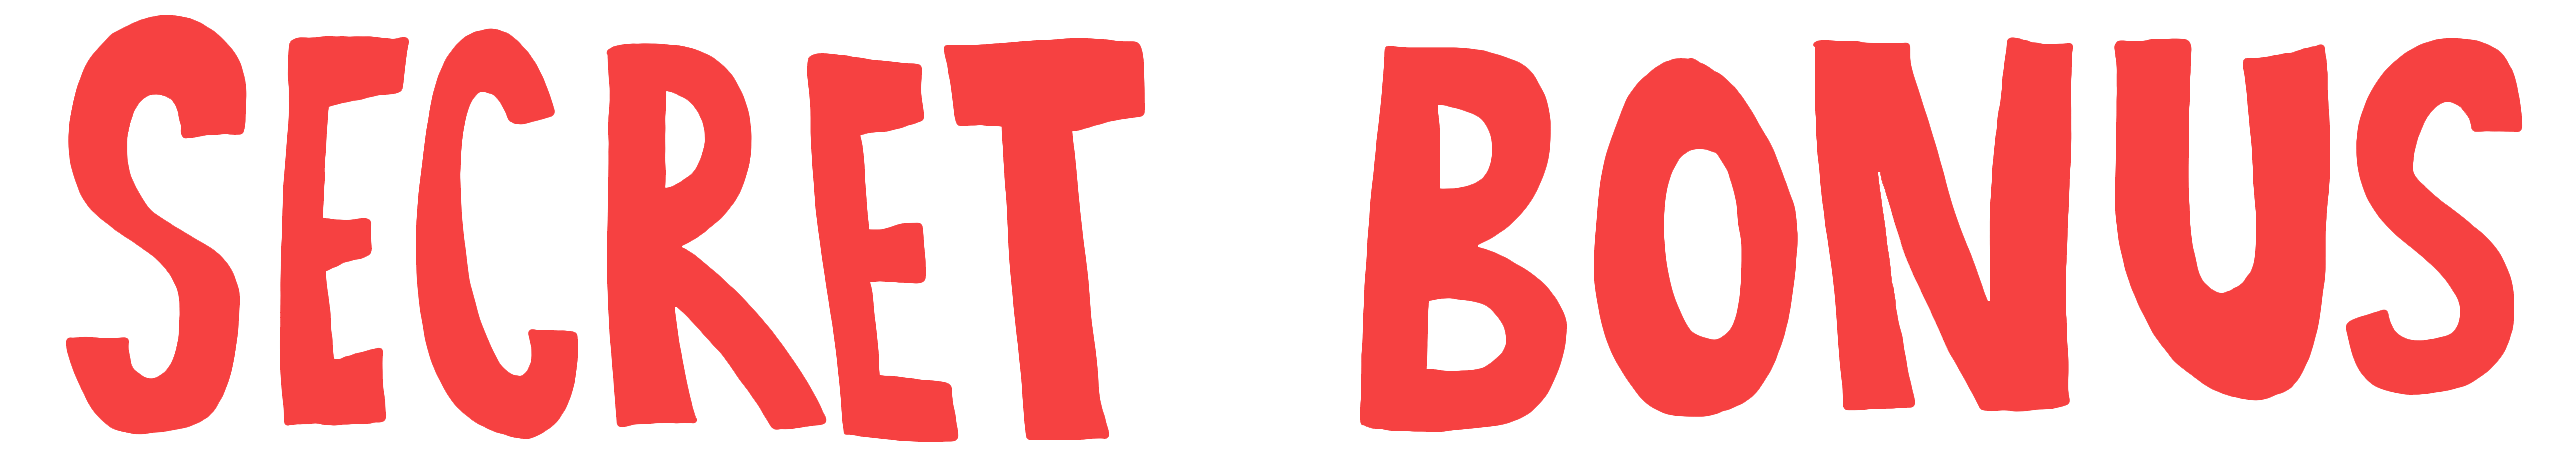
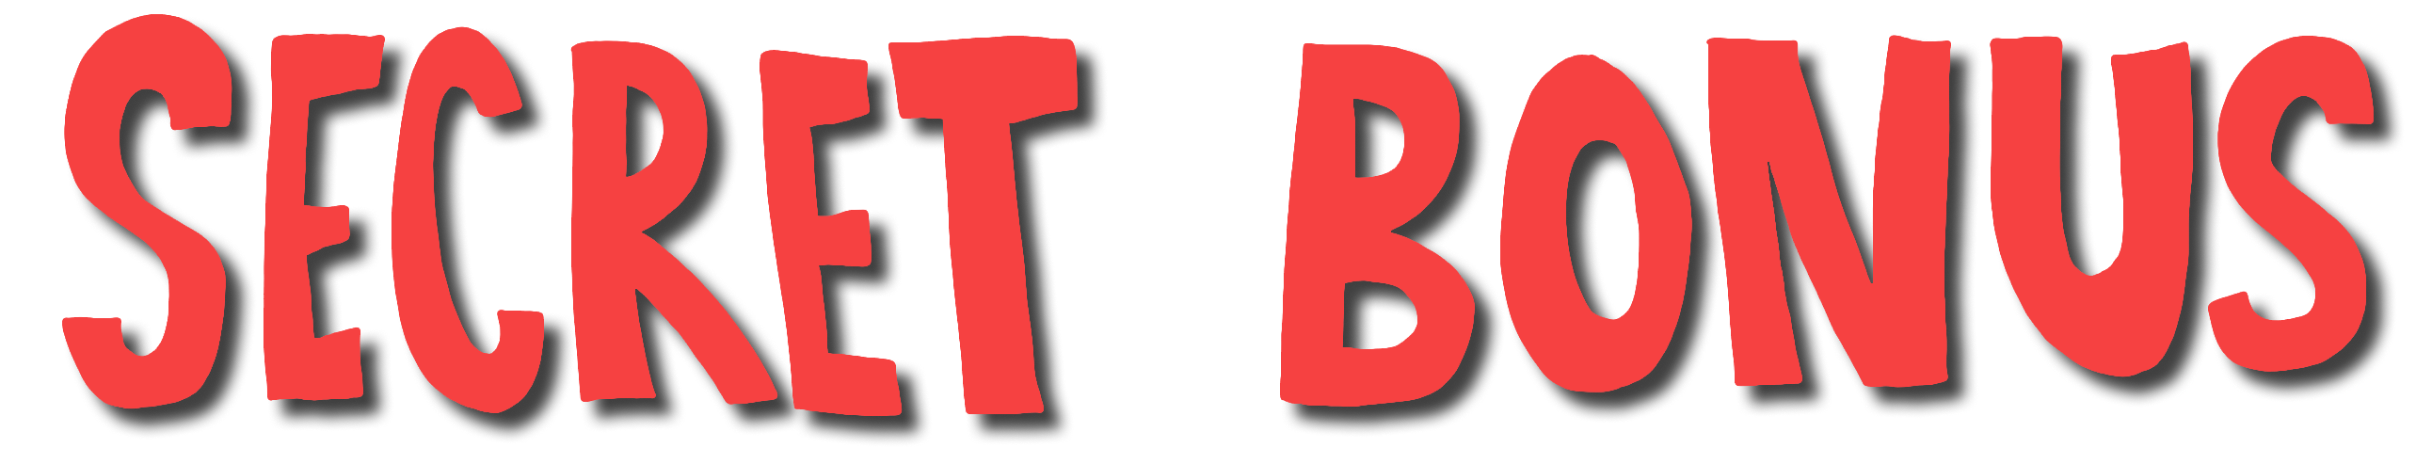
Changed styling to match figma spec.

Changed region(s): [[0.5, 0.0605, 1.0, 0.9374], [0.0, 0.0605, 0.4688, 0.9676], [0.0312, 0.0302, 0.0625, 0.0605]]

diff --git a/src/styles/components/pages/votingPages/secretBonus.scss b/src/styles/components/pages/votingPages/secretBonus.scss
@@ -1,7 +1,11 @@
+.modal-wrapper .modal.bonus {
+  // background-color: $ltblue;
+}
 .secret-bonus {
   display: flex;
   flex-flow: column nowrap;
   align-items: center;
+  padding: 0 0 2rem;
 
   img {
     width: 1000px;
@@ -10,39 +14,32 @@
   }
 
   p {
-    font-family: $text-font;
     color: #000;
-    font-size: 1.8rem;
     text-align: center;
-    margin-bottom: 2.5rem;
 
     &:first-of-type {
-      color: $jade;
-      font-weight: 500;
-      margin-bottom: 0.5rem;
+      color: $orange;
+      font-family: $display-font;
+      font-size: 3.6rem;
+      margin-bottom: 1rem;
+      line-height: 3.8rem;
     }
 
     &.prompt {
-      font-size: 3.2rem;
-      line-height: 4rem;
+      font-family: $text-font;
+      font-size: 2.4rem;
       padding: 0 5%;
-      text-shadow: 0 2px 2px #0003;
-      text-align: left;
+      line-height: 3.6rem;
+      margin-bottom: 4rem;
     }
 
     &.timer {
-      color: $red;
+      font-family: $display-font;
       font-size: 2.4rem;
 
       span {
-        font-family: $display-font;
-      }
-    }
-
-    &.later {
-      span {
-        color: $jade;
-        font-weight: 500;
+        color: $red;
+        font-size: 4.8rem;
       }
     }
   }

diff --git a/src/components/pages/VotingPage/CastVote/SecretBonus.tsx b/src/components/pages/VotingPage/CastVote/SecretBonus.tsx
@@ -1,6 +1,5 @@
 import React, { useEffect, useState } from 'react';
 import secretBonus from '../../../../assets/img/secret-bonus-red.png';
-import { time } from '../../../../utils';
 
 const SecretBonus = (props: SecretBonusProps): React.ReactElement => {
   const [timeLeft, setTimeLeft] = useState(60);
@@ -16,15 +15,10 @@ const SecretBonus = (props: SecretBonusProps): React.ReactElement => {
   return (
     <div className="secret-bonus">
       <img src={secretBonus} alt="Secret Bonus" />
-      <p>Get a head start on tomorrow&apos;s story!</p>
+      <p>Get a head start on tomorrow&apos;s story:</p>
       <p className="prompt">{props.secretMessage}</p>
       <p className="timer">
         This message will self-destruct in <span>{timeLeft}</span> seconds!
-      </p>
-      <p className="later">
-        Check back at{' '}
-        <span>{time.schedule.announce.start.format('h:mm A')}</span> tonight to
-        see if you voted for the winner!
       </p>
     </div>
   );

diff --git a/src/components/pages/VotingPage/VotingPageContainer.tsx b/src/components/pages/VotingPage/VotingPageContainer.tsx
@@ -2,7 +2,6 @@ import React, { useEffect } from 'react';
 import { useRecoilState, useRecoilValue, useSetRecoilState } from 'recoil';
 import { Submissions } from '../../../api';
 import { apiError, top3 } from '../../../state';
-import { time } from '../../../utils';
 import { Loader } from '../../common';
 import { CastVote } from './CastVote';
 import { ReadSubmissions } from './ReadSubmissions';
@@ -12,7 +11,8 @@ const VotingPageContainer = (): React.ReactElement => {
   const [top3List, setTop3] = useRecoilState(top3.top3List);
   const finishedReading = useRecoilValue(top3.hasFinishedReadingState);
   const setLoadingError = useSetRecoilState(apiError.global);
-  const { active } = time.getTimeUntilEvent('vote');
+  // const { active } = time.getTimeUntilEvent('vote');
+  const active = true;
 
   useEffect(() => {
     if (active && !top3List) {

diff --git a/src/state/top3State/top3Atoms.ts b/src/state/top3State/top3Atoms.ts
@@ -1,9 +1,23 @@
 import { atom } from 'recoil';
 import { Submissions } from '../../api';
 
+const makeTop3 = (userId: number) => {
+  const src = 'https://i.redd.it/54awv7jxe4e41.jpg';
+  return [...new Array(3)].map((x, i) => ({
+    id: i + 1,
+    image: '',
+    username: 'TestUsername',
+    userId: userId,
+    src: src,
+  }));
+};
+
+// const top3InitState = null;
+const top3InitState: Submissions.SubItem[] = makeTop3(14);
+
 export const top3List = atom<Submissions.SubItem[] | null>({
   key: 'top3List',
-  default: null,
+  default: top3InitState,
 });
 
 const initialHasReadState = [false, false, false];

diff --git a/src/components/pages/VotingPage/CastVote/RenderCastVotes.tsx b/src/components/pages/VotingPage/CastVote/RenderCastVotes.tsx
@@ -38,6 +38,10 @@ const RenderCastVotes = (): React.ReactElement => {
       .catch((err) => {
         console.log({ err });
         setError('Could not submit vote. Please try again later.');
+        setVoted(true);
+        setSecretMessage(
+          'Heres the prompt for tomorrow blah blah blah here we go',
+        );
       });
   };
 
